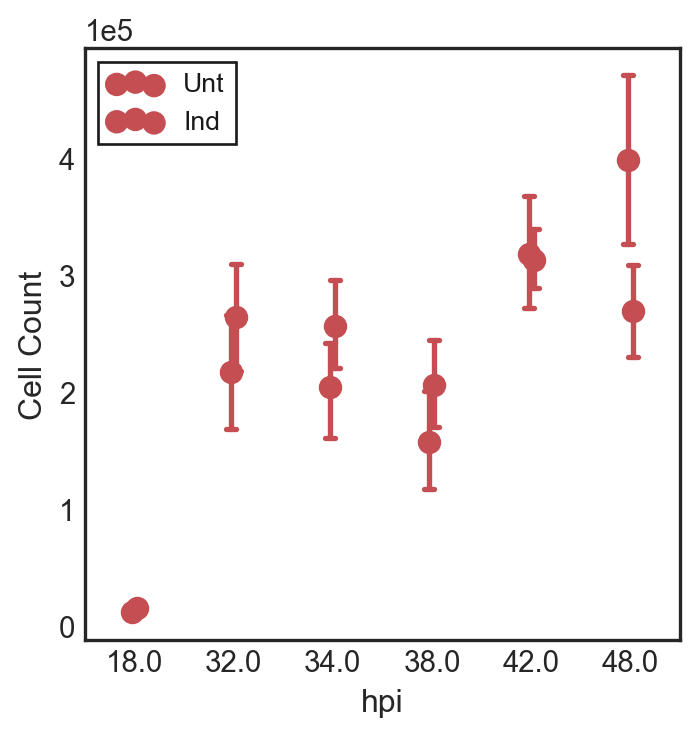
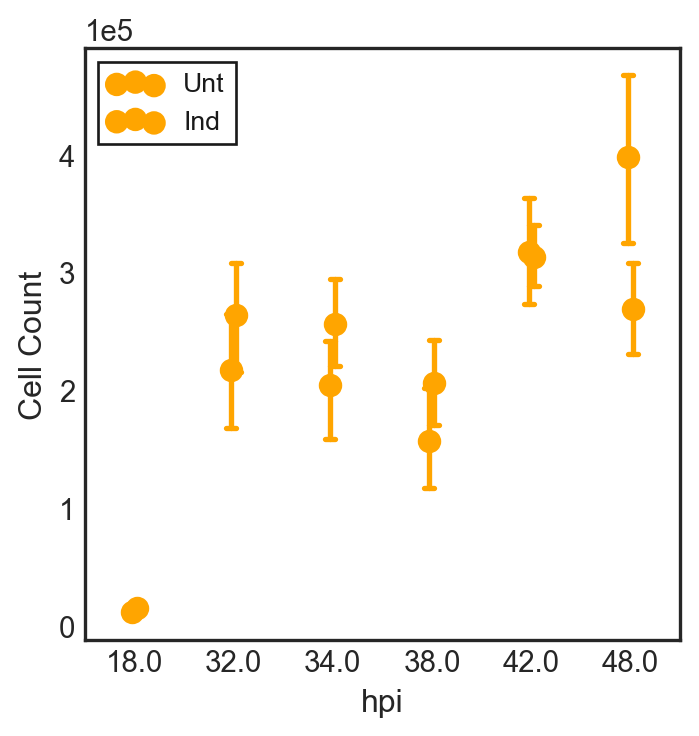
changed color

diff --git a/docs/posts/MarksChannels/index.html b/docs/posts/MarksChannels/index.html
@@ -249,7 +249,7 @@ code span.wa { color: #60a0b0; font-weight: bold; font-style: italic; } /* Warni
 <summary>Code</summary>
 <div class="sourceCode cell-code" id="cb4"><pre class="sourceCode python code-with-copy"><code class="sourceCode python"><span id="cb4-1"><a href="#cb4-1" aria-hidden="true" tabindex="-1"></a><span class="cf">with</span> plt.style.context(<span class="st">'seaborn-white'</span>):</span>
 <span id="cb4-2"><a href="#cb4-2" aria-hidden="true" tabindex="-1"></a>    fig, ax <span class="op">=</span> plt.subplots(ncols<span class="op">=</span><span class="dv">1</span>)</span>
-<span id="cb4-3"><a href="#cb4-3" aria-hidden="true" tabindex="-1"></a>    sns.pointplot(x<span class="op">=</span>df[<span class="st">'hpi'</span>], y<span class="op">=</span>df[<span class="st">'pyrG copies/ul'</span>], hue<span class="op">=</span>df[<span class="st">'Treatment'</span>], data<span class="op">=</span>df, errwidth<span class="op">=</span><span class="dv">2</span>, capsize<span class="op">=</span><span class="fl">.1</span>, linestyles<span class="op">=</span><span class="st">'-'</span>, palette<span class="op">=</span>(<span class="st">'r'</span>, <span class="st">'g'</span>), dodge<span class="op">=</span><span class="va">True</span>, ax<span class="op">=</span>ax)</span>
+<span id="cb4-3"><a href="#cb4-3" aria-hidden="true" tabindex="-1"></a>    sns.pointplot(x<span class="op">=</span>df[<span class="st">'hpi'</span>], y<span class="op">=</span>df[<span class="st">'pyrG copies/ul'</span>], hue<span class="op">=</span>df[<span class="st">'Treatment'</span>], data<span class="op">=</span>df, errwidth<span class="op">=</span><span class="dv">2</span>, capsize<span class="op">=</span><span class="fl">.1</span>, linestyles<span class="op">=</span><span class="st">'-'</span>, palette<span class="op">=</span>(<span class="st">'orange'</span>, <span class="st">'b'</span>), dodge<span class="op">=</span><span class="va">True</span>, ax<span class="op">=</span>ax)</span>
 <span id="cb4-4"><a href="#cb4-4" aria-hidden="true" tabindex="-1"></a>    <span class="cf">with</span> plt.style.context(<span class="st">'classic'</span>):</span>
 <span id="cb4-5"><a href="#cb4-5" aria-hidden="true" tabindex="-1"></a>        ax.legend(loc<span class="op">=</span><span class="st">'upper left'</span>, fontsize<span class="op">=</span><span class="dv">10</span>)</span>
 <span id="cb4-6"><a href="#cb4-6" aria-hidden="true" tabindex="-1"></a>        ax.<span class="bu">set</span>(ylabel<span class="op">=</span><span class="st">'Cell Count'</span>)</span>
@@ -275,7 +275,7 @@ code span.wa { color: #60a0b0; font-weight: bold; font-style: italic; } /* Warni
 <summary>Code</summary>
 <div class="sourceCode cell-code" id="cb6"><pre class="sourceCode python code-with-copy"><code class="sourceCode python"><span id="cb6-1"><a href="#cb6-1" aria-hidden="true" tabindex="-1"></a><span class="cf">with</span> plt.style.context(<span class="st">'seaborn-white'</span>):</span>
 <span id="cb6-2"><a href="#cb6-2" aria-hidden="true" tabindex="-1"></a>    fig, ax <span class="op">=</span> plt.subplots(ncols<span class="op">=</span><span class="dv">1</span>)</span>
-<span id="cb6-3"><a href="#cb6-3" aria-hidden="true" tabindex="-1"></a>    sns.pointplot(x<span class="op">=</span>df[<span class="st">'hpi'</span>], y<span class="op">=</span>df[<span class="st">'pyrG copies/ul'</span>], hue<span class="op">=</span>df[<span class="st">'Treatment'</span>], data<span class="op">=</span>df, errwidth<span class="op">=</span><span class="dv">2</span>, capsize<span class="op">=</span><span class="fl">.1</span>, linestyles<span class="op">=</span><span class="st">'none'</span>, palette<span class="op">=</span>(<span class="st">'r'</span>, <span class="st">'r'</span>), dodge<span class="op">=</span><span class="va">True</span>, ax<span class="op">=</span>ax)</span>
+<span id="cb6-3"><a href="#cb6-3" aria-hidden="true" tabindex="-1"></a>    sns.pointplot(x<span class="op">=</span>df[<span class="st">'hpi'</span>], y<span class="op">=</span>df[<span class="st">'pyrG copies/ul'</span>], hue<span class="op">=</span>df[<span class="st">'Treatment'</span>], data<span class="op">=</span>df, errwidth<span class="op">=</span><span class="dv">2</span>, capsize<span class="op">=</span><span class="fl">.1</span>, linestyles<span class="op">=</span><span class="st">'none'</span>, palette<span class="op">=</span>(<span class="st">'orange'</span>, <span class="st">'orange'</span>), dodge<span class="op">=</span><span class="va">True</span>, ax<span class="op">=</span>ax)</span>
 <span id="cb6-4"><a href="#cb6-4" aria-hidden="true" tabindex="-1"></a>    <span class="cf">with</span> plt.style.context(<span class="st">'classic'</span>):</span>
 <span id="cb6-5"><a href="#cb6-5" aria-hidden="true" tabindex="-1"></a>        ax.legend(loc<span class="op">=</span><span class="st">'upper left'</span>, fontsize<span class="op">=</span><span class="dv">10</span>)</span>
 <span id="cb6-6"><a href="#cb6-6" aria-hidden="true" tabindex="-1"></a>        ax.<span class="bu">set</span>(ylabel<span class="op">=</span><span class="st">'Cell Count'</span>)</span>
